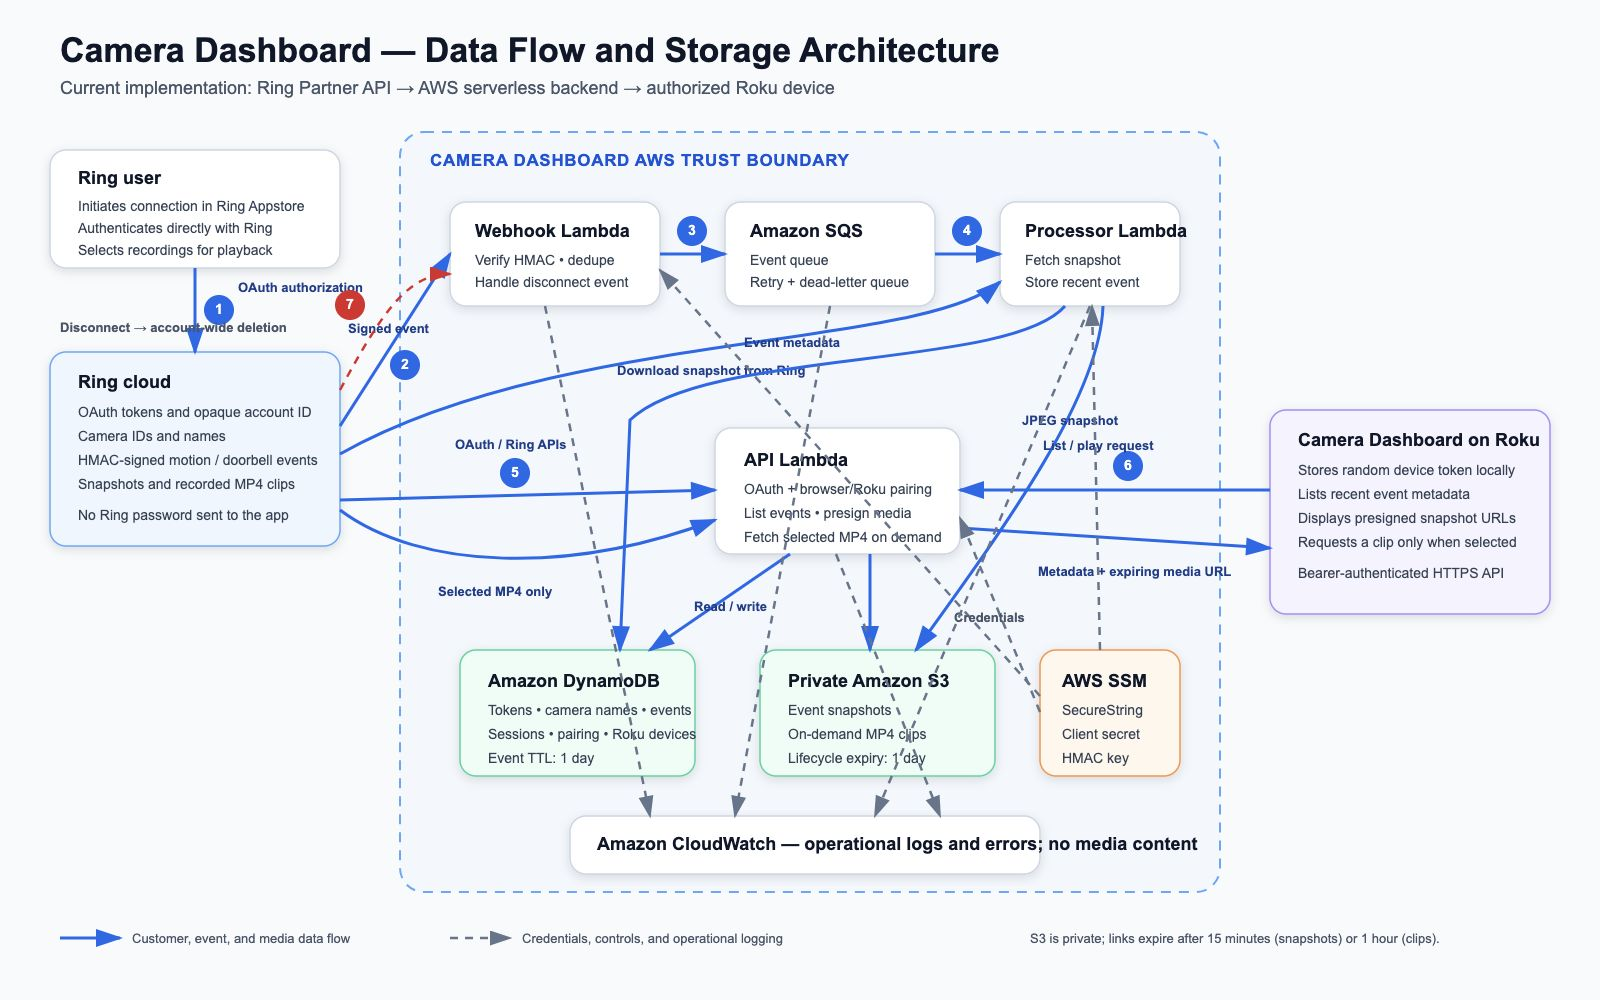
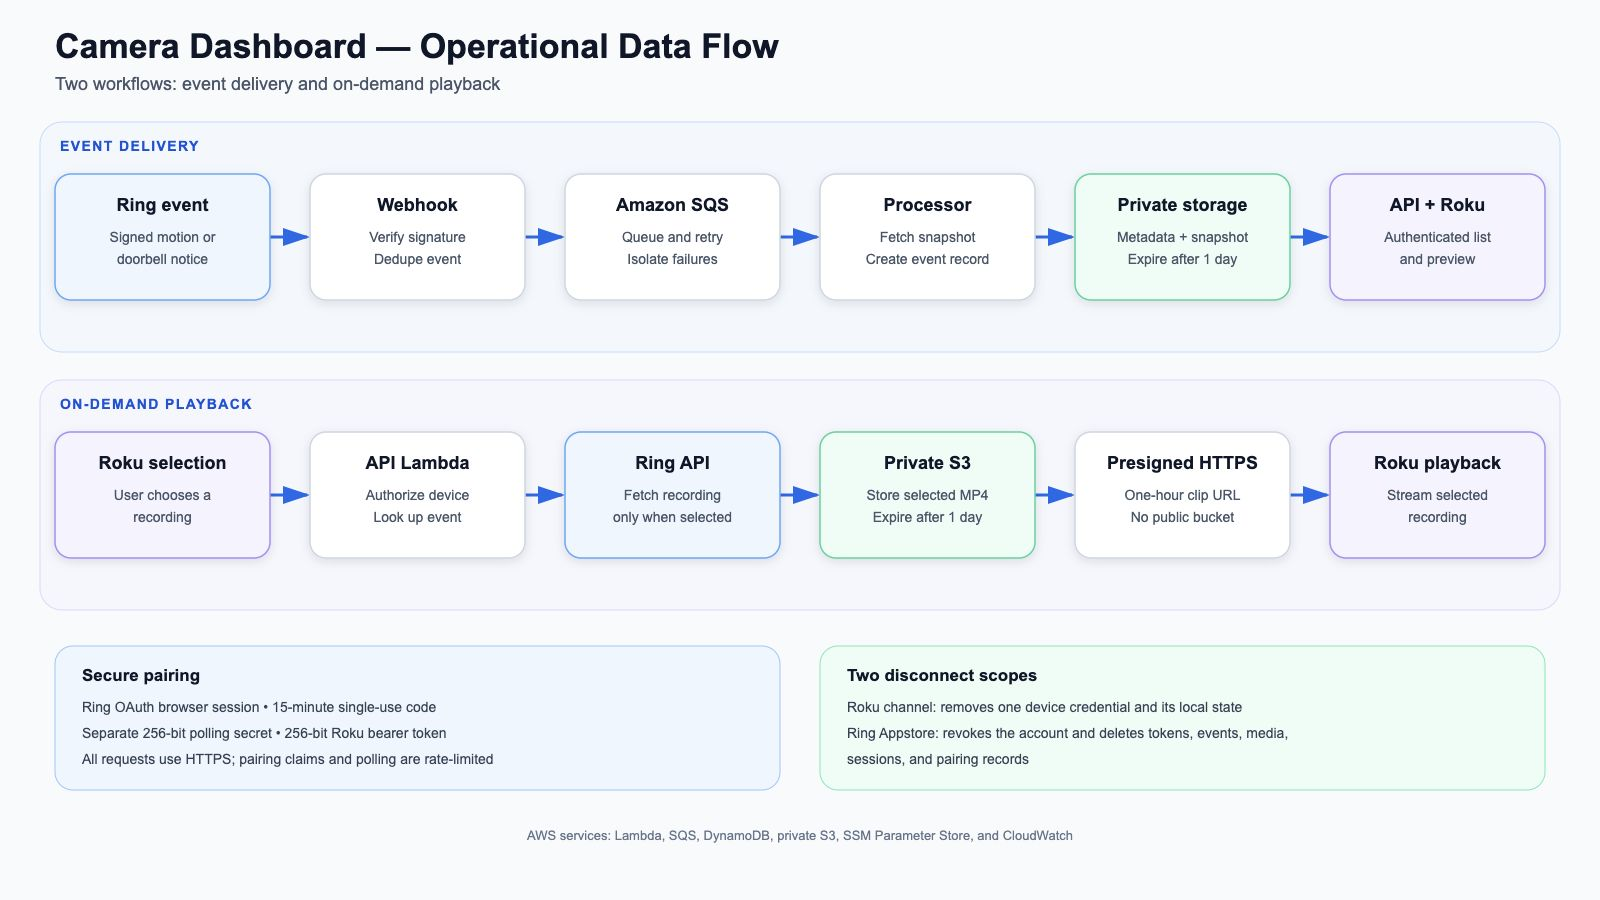
Add files via upload

diff --git a/certification-schematics/index.html b/certification-schematics/index.html
@@ -127,7 +127,7 @@
     <p class="lede">Data flow, security controls, storage, retention, and deletion behavior for the Ring-to-Roku integration.</p>
     <nav aria-label="Schematic sections">
       <a href="#data-flow">Data-flow overview</a>
-      <a href="#architecture">Detailed architecture</a>
+      <a href="#architecture">Operational workflow</a>
       <a href="#data-storage">Storage and retention</a>
       <a href="#deletion">Disconnect and deletion</a>
       <a href="#secure-pairing">Pairing security</a>
@@ -170,12 +170,12 @@
   <section class="diagram" id="architecture">
     <div class="diagram-head">
       <div>
-        <h2>Detailed architecture</h2>
-        <p>End-to-end Ring authorization, webhook, AWS service, storage, and Roku request paths.</p>
+        <h2>Operational workflow</h2>
+        <p>Two straight-through paths show event delivery and on-demand playback, with pairing and disconnect controls summarized below.</p>
       </div>
       <p class="downloads"><a href="data-flow-architecture.svg">SVG</a><a href="data-flow-architecture.jpg">JPG</a></p>
     </div>
-    <img src="data-flow-architecture.svg" alt="Detailed Camera Dashboard data-flow architecture">
+    <img src="data-flow-architecture.svg" alt="Camera Dashboard event delivery and on-demand playback workflows">
   </section>
 
   <section class="diagram" id="data-storage">
